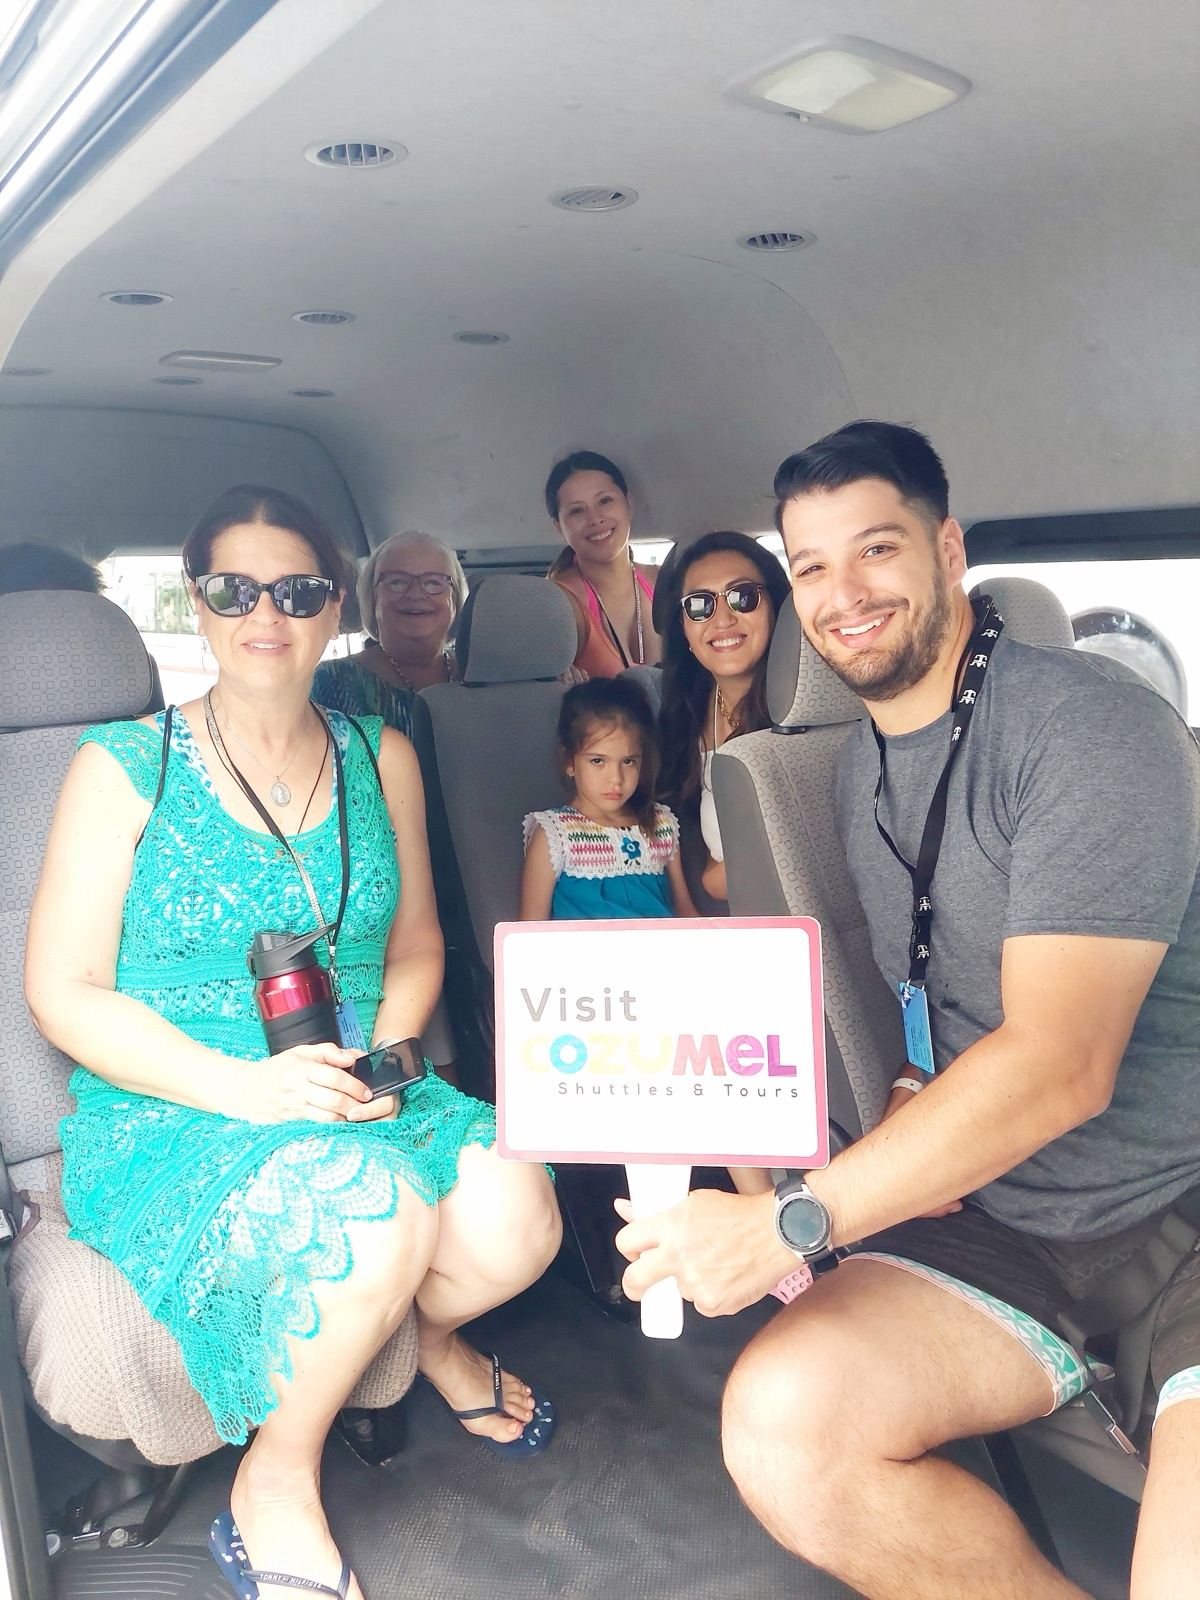
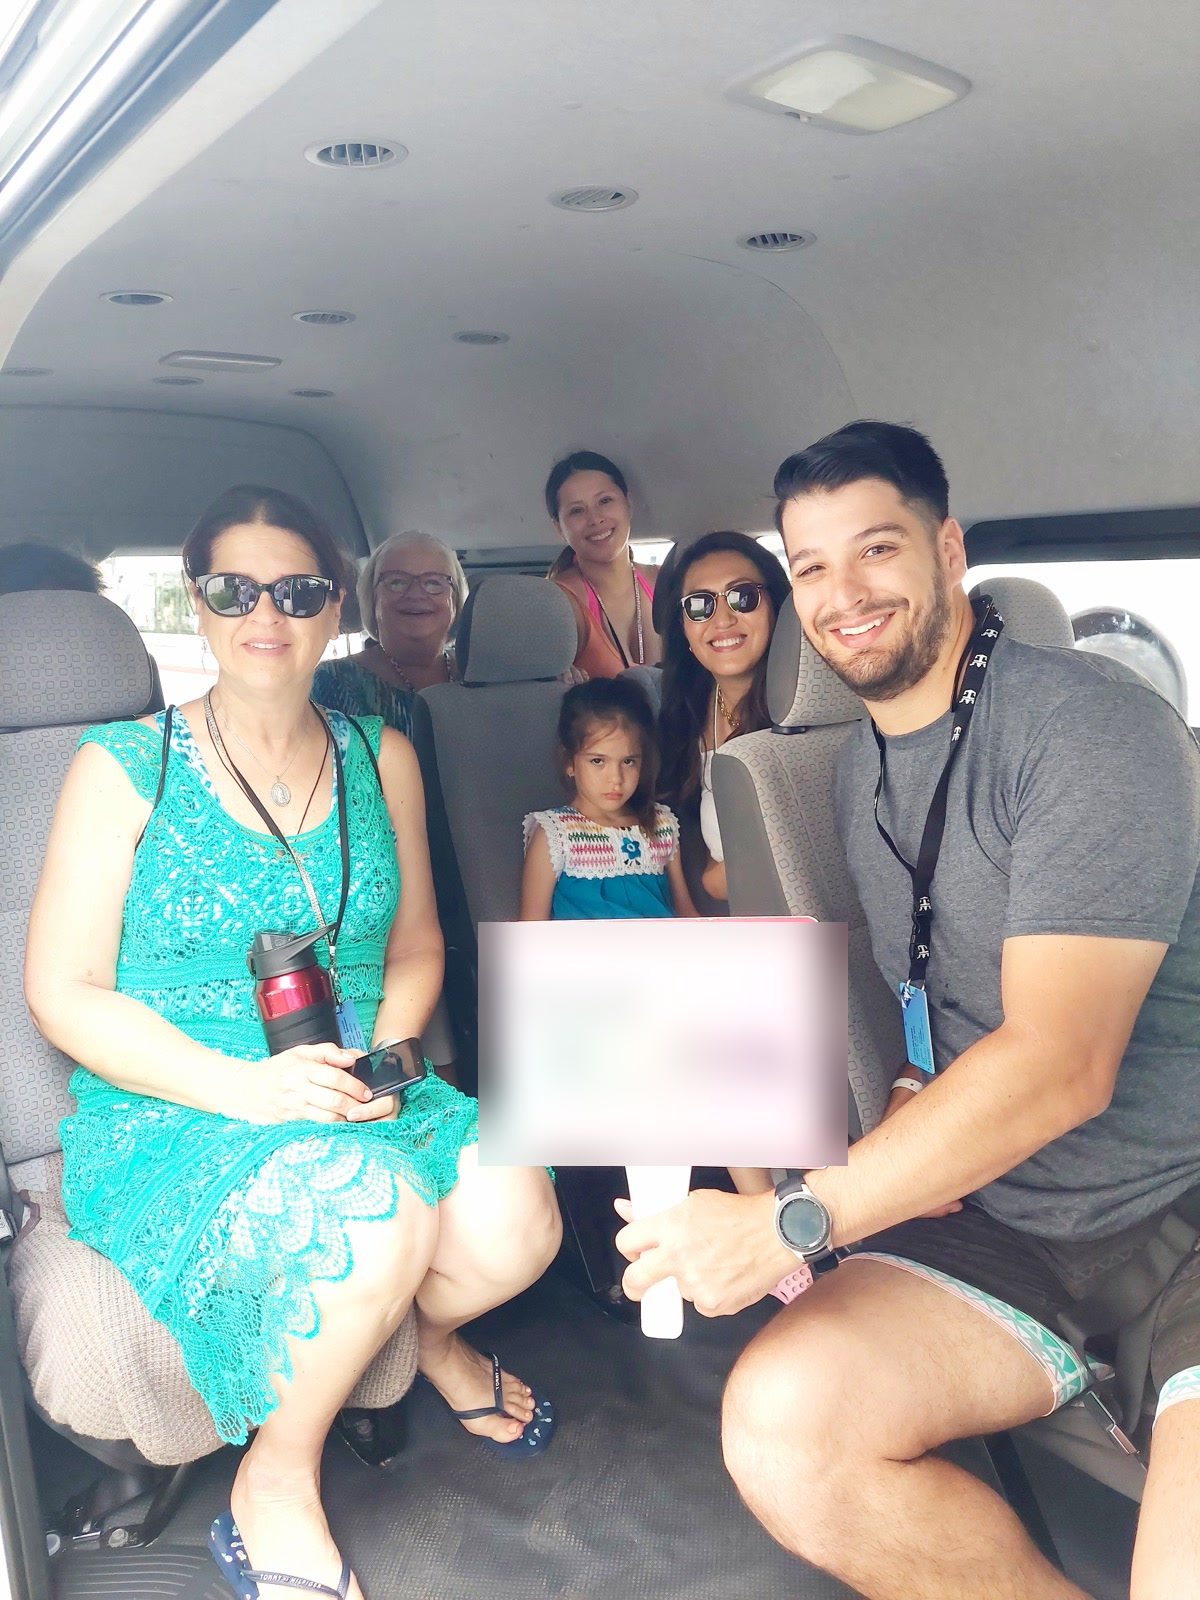
Eleven happy guests, a rotating Tierra Maya card, and a heading that stops protesting
Four changes Mike asked for after seeing it live.

HEADING. "Real pickups, real guests" is now "Happy guests". He was right: insisting a
thing is real is what people do when it is not, and a stranger reads the denial before
the claim. The photographs are the evidence; the heading only has to point at them. The
sub-line drops "Every photo below is a booking we actually drove" for the same reason.

POSITION. The strip now sits BELOW the destination cards rather than above them. She
comes to this page to pick a place; showing her strangers before she has chosen one is
interrupting. After she has picked, the same photographs read as reassurance.

THE PADDLE IS BLURRED in the van interior, at his request.

TIERRA MAYA rotates through four photographs - the group under the carved sign, the
cacao tables, the guide, the face paint. It is the one destination we own and the only
one with a real archive, so its card can show the place as a visit rather than a single
frame. Pure CSS, no script, 16s cycle at 4s each: slow enough to read as a place rather
than a slideshow. Honoured only when the visitor has not asked for reduced motion.

Three more photos in the strip, now eleven: the roadside fruit stand, the Punta Sur
signpost, and the cacao tables. Taken on his instruction to accept softer images where
the content is right - the fruit stand and the ice-cream shop are the two weakest files
in the set and two of the best moments.

Changed region(s): [[0.4625, 0.5625, 0.7092, 0.75], [0.4008, 0.5625, 0.5242, 0.75], [0.4625, 0.7188, 0.4933, 0.75]]

diff --git a/index.html b/index.html
@@ -631,6 +631,20 @@ figure.proof figcaption,figure.overview figcaption{font-size:13px;color:var(--mu
 .van-figure img{width:100%;max-height:420px;object-fit:cover;object-position:center 42%;
   border-radius:12px;display:block;background:#e8eef2}
 .van-figure figcaption{font-size:13px;color:var(--muted,#5B6B79);padding:8px 2px 0;line-height:1.5}
+
+/* Tierra Maya card, four photos crossfading. 16s cycle, 4s each: slow enough to read as a place
+   rather than a slideshow, and it never moves while she is deciding. Honoured only when the
+   visitor has not asked for reduced motion. */
+.poster-img.rotate img{opacity:0;animation:tmFade 16s linear infinite}
+.poster-img.rotate img:nth-of-type(1){animation-delay:0s}
+.poster-img.rotate img:nth-of-type(2){animation-delay:4s}
+.poster-img.rotate img:nth-of-type(3){animation-delay:8s}
+.poster-img.rotate img:nth-of-type(4){animation-delay:12s}
+@keyframes tmFade{0%{opacity:0}3%{opacity:1}25%{opacity:1}28%{opacity:0}100%{opacity:0}}
+@media(prefers-reduced-motion:reduce){
+  .poster-img.rotate img{animation:none;opacity:0}
+  .poster-img.rotate img:nth-of-type(1){opacity:1}
+}
 </style>
 </head>
 <body>
@@ -692,75 +706,19 @@ figure.proof figcaption,figure.overview figcaption{font-size:13px;color:var(--mu
        guest at the top of the page instead of at the thing she came to use. -->
   <div id="book"></div>
 
-  <!-- ── Real guests ──
-       Until today this page argued entirely in words: a private van, a person with a sign, one
-       flat price. It showed vans with nobody in them. These are real pickups and real customers,
-       which is the only evidence a stranger on ship wifi can actually check.
-
-       A horizontal strip rather than a grid, on purpose. A grid of eight means eight downloads and
-       a very long scroll on a phone. This shows about 1.2 photos at a time — the half-visible one
-       is what tells her to swipe — and only fetches what she reaches.
-
-       Every image is srcset across four widths, so a phone pulls a 400px file where a desktop pulls
-       1280px. width/height are the NATIVE ratios so the row cannot jump while loading; layout shift
-       on the way to a booking form is how you lose the booking. -->
-  <div class="sechead">Real pickups, real guests</div>
-  <p class="blurb" style="padding-top:0">Every photo below is a booking we actually drove.</p>
-  <div class="photo-strip" id="photoStrip">
-      <figure>
-        <img src="/.netlify/images?url=/assets/photos/guests-boarding-van.jpg&amp;fm=webp&amp;q=72&amp;w=640" srcset="/.netlify/images?url=/assets/photos/guests-boarding-van.jpg&amp;fm=webp&amp;q=72&amp;w=400 400w, /.netlify/images?url=/assets/photos/guests-boarding-van.jpg&amp;fm=webp&amp;q=72&amp;w=640 640w, /.netlify/images?url=/assets/photos/guests-boarding-van.jpg&amp;fm=webp&amp;q=72&amp;w=900 900w, /.netlify/images?url=/assets/photos/guests-boarding-van.jpg&amp;fm=webp&amp;q=72&amp;w=1280 1280w"
-             sizes="(max-width: 560px) 78vw, 300px"
-             width="1600" height="1200" loading="eager" decoding="async"
-             alt="Guests climbing into a Cozumel Island Transfers van on the street">
-      </figure>
-      <figure>
-        <img src="/.netlify/images?url=/assets/photos/driver-welcome-family.jpg&amp;fm=webp&amp;q=72&amp;w=640" srcset="/.netlify/images?url=/assets/photos/driver-welcome-family.jpg&amp;fm=webp&amp;q=72&amp;w=400 400w, /.netlify/images?url=/assets/photos/driver-welcome-family.jpg&amp;fm=webp&amp;q=72&amp;w=640 640w, /.netlify/images?url=/assets/photos/driver-welcome-family.jpg&amp;fm=webp&amp;q=72&amp;w=900 900w, /.netlify/images?url=/assets/photos/driver-welcome-family.jpg&amp;fm=webp&amp;q=72&amp;w=1280 1280w"
-             sizes="(max-width: 560px) 78vw, 300px"
-             width="1600" height="993" loading="lazy" decoding="async"
-             alt="Our driver with a family of five and a baby in a stroller beside the van">
-      </figure>
-      <figure>
-        <img src="/.netlify/images?url=/assets/photos/inside-the-van.jpg&amp;fm=webp&amp;q=72&amp;w=640" srcset="/.netlify/images?url=/assets/photos/inside-the-van.jpg&amp;fm=webp&amp;q=72&amp;w=400 400w, /.netlify/images?url=/assets/photos/inside-the-van.jpg&amp;fm=webp&amp;q=72&amp;w=640 640w, /.netlify/images?url=/assets/photos/inside-the-van.jpg&amp;fm=webp&amp;q=72&amp;w=900 900w, /.netlify/images?url=/assets/photos/inside-the-van.jpg&amp;fm=webp&amp;q=72&amp;w=1280 1280w"
-             sizes="(max-width: 560px) 78vw, 300px"
-             width="1600" height="1200" loading="lazy" decoding="async"
-             alt="Six guests of three generations seated inside the van on the way to the beach">
-      </figure>
-      <figure>
-        <img src="/.netlify/images?url=/assets/photos/family-windward-coast.jpg&amp;fm=webp&amp;q=72&amp;w=640" srcset="/.netlify/images?url=/assets/photos/family-windward-coast.jpg&amp;fm=webp&amp;q=72&amp;w=400 400w, /.netlify/images?url=/assets/photos/family-windward-coast.jpg&amp;fm=webp&amp;q=72&amp;w=640 640w, /.netlify/images?url=/assets/photos/family-windward-coast.jpg&amp;fm=webp&amp;q=72&amp;w=900 900w, /.netlify/images?url=/assets/photos/family-windward-coast.jpg&amp;fm=webp&amp;q=72&amp;w=1280 1280w"
-             sizes="(max-width: 560px) 78vw, 300px"
-             width="1600" height="1115" loading="lazy" decoding="async"
-             alt="A family of five at the Mexican flag on Cozumel's windward coast">
-      </figure>
-      <figure>
-        <img src="/.netlify/images?url=/assets/photos/cozumel-letters-family.jpg&amp;fm=webp&amp;q=72&amp;w=640" srcset="/.netlify/images?url=/assets/photos/cozumel-letters-family.jpg&amp;fm=webp&amp;q=72&amp;w=400 400w, /.netlify/images?url=/assets/photos/cozumel-letters-family.jpg&amp;fm=webp&amp;q=72&amp;w=640 640w, /.netlify/images?url=/assets/photos/cozumel-letters-family.jpg&amp;fm=webp&amp;q=72&amp;w=900 900w, /.netlify/images?url=/assets/photos/cozumel-letters-family.jpg&amp;fm=webp&amp;q=72&amp;w=1280 1280w"
-             sizes="(max-width: 560px) 78vw, 300px"
-             width="1600" height="1035" loading="lazy" decoding="async"
-             alt="A family at the painted COZUMEL letters on the beach">
-      </figure>
-      <figure>
-        <img src="/.netlify/images?url=/assets/photos/waterfront-arch-ship.jpg&amp;fm=webp&amp;q=72&amp;w=640" srcset="/.netlify/images?url=/assets/photos/waterfront-arch-ship.jpg&amp;fm=webp&amp;q=72&amp;w=400 400w, /.netlify/images?url=/assets/photos/waterfront-arch-ship.jpg&amp;fm=webp&amp;q=72&amp;w=640 640w, /.netlify/images?url=/assets/photos/waterfront-arch-ship.jpg&amp;fm=webp&amp;q=72&amp;w=900 900w, /.netlify/images?url=/assets/photos/waterfront-arch-ship.jpg&amp;fm=webp&amp;q=72&amp;w=1280 1280w"
-             sizes="(max-width: 560px) 78vw, 300px"
-             width="1600" height="1190" loading="lazy" decoding="async"
-             alt="Four guests at the bronze arch on the waterfront with a cruise ship behind">
-      </figure>
-      <figure>
-        <img src="/.netlify/images?url=/assets/photos/guests-ice-cream.jpg&amp;fm=webp&amp;q=72&amp;w=640" srcset="/.netlify/images?url=/assets/photos/guests-ice-cream.jpg&amp;fm=webp&amp;q=72&amp;w=400 400w, /.netlify/images?url=/assets/photos/guests-ice-cream.jpg&amp;fm=webp&amp;q=72&amp;w=640 640w, /.netlify/images?url=/assets/photos/guests-ice-cream.jpg&amp;fm=webp&amp;q=72&amp;w=900 900w, /.netlify/images?url=/assets/photos/guests-ice-cream.jpg&amp;fm=webp&amp;q=72&amp;w=1280 1280w"
-             sizes="(max-width: 560px) 78vw, 300px"
-             width="1600" height="1200" loading="lazy" decoding="async"
-             alt="Eight guests laughing with ice creams in a local Cozumel shop">
-      </figure>
-      <figure>
-        <img src="/.netlify/images?url=/assets/photos/tierra-maya-workshop.jpg&amp;fm=webp&amp;q=72&amp;w=640" srcset="/.netlify/images?url=/assets/photos/tierra-maya-workshop.jpg&amp;fm=webp&amp;q=72&amp;w=400 400w, /.netlify/images?url=/assets/photos/tierra-maya-workshop.jpg&amp;fm=webp&amp;q=72&amp;w=640 640w, /.netlify/images?url=/assets/photos/tierra-maya-workshop.jpg&amp;fm=webp&amp;q=72&amp;w=900 900w, /.netlify/images?url=/assets/photos/tierra-maya-workshop.jpg&amp;fm=webp&amp;q=72&amp;w=1280 1280w"
-             sizes="(max-width: 560px) 78vw, 300px"
-             width="1600" height="1282" loading="lazy" decoding="async"
-             alt="Guests grinding cacao on volcanic stone under papel picado at Tierra Maya">
-      </figure>
-  </div>
-
   <div class="sechead" id="homeDest">Where do you need to go?</div>
     <div class="grid" id="hubGrid">
     <button class="poster" onclick="openDest('tierra-maya')">
-      <div class="poster-img"><img src="/.netlify/images?url=/assets/photos/dest-tierra-maya-guests.jpg&amp;w=560&amp;fm=webp&amp;q=72" alt="Tierra Maya, Cozumel" loading="lazy"><span class="pl">Mayan Preserve</span></div>
+      <!-- Four photos, crossfading. Tierra Maya is the destination we own and the only one with a
+           real archive, so the card shows the place as a visit rather than as a single frame: the
+           group under the sign, the cacao tables, the guide, the face paint. Pure CSS - no script,
+           no library, and it costs four lazy images the browser fetches when the card scrolls in. -->
+      <div class="poster-img rotate">
+        <img src="/.netlify/images?url=/assets/photos/tm-1.jpg&amp;w=560&amp;fm=webp&amp;q=72" alt="A group of guests with their guide under the carved Tierra Maya sign" loading="lazy" decoding="async">
+        <img src="/.netlify/images?url=/assets/photos/tm-2.jpg&amp;w=560&amp;fm=webp&amp;q=72" alt="Guests grinding cacao on stone at Tierra Maya" loading="lazy" decoding="async" aria-hidden="true">
+        <img src="/.netlify/images?url=/assets/photos/tm-3.jpg&amp;w=560&amp;fm=webp&amp;q=72" alt="" loading="lazy" decoding="async" aria-hidden="true">
+        <img src="/.netlify/images?url=/assets/photos/tm-4.jpg&amp;w=560&amp;fm=webp&amp;q=72" alt="" loading="lazy" decoding="async" aria-hidden="true">
+        <span class="pl">Mayan Preserve</span></div>
       <div class="poster-meta"><h3>Tierra Maya</h3><div class="dur">15 min from the pier</div>
       <div class="go">View &amp; book →</div></div>
     </button>
@@ -812,6 +770,93 @@ figure.proof figcaption,figure.overview figcaption{font-size:13px;color:var(--mu
       <div class="go">View &amp; book →</div></div>
     </button>
   </div>
+
+  <!-- ── Happy guests ──
+       Named "Happy guests", not "Real pickups, real guests". The earlier heading protested too
+       much: insisting a thing is real is what people do when it is not, and a stranger reads the
+       denial before the claim. The photographs are the evidence; the heading only has to point.
+       Until today this page argued entirely in words: a private van, a person with a sign, one
+       flat price. It showed vans with nobody in them. These are real pickups and real customers,
+       which is the only evidence a stranger on ship wifi can actually check.
+
+       A horizontal strip rather than a grid, on purpose. A grid of eight means eight downloads and
+       a very long scroll on a phone. This shows about 1.2 photos at a time — the half-visible one
+       is what tells her to swipe — and only fetches what she reaches.
+
+       Every image is srcset across four widths, so a phone pulls a 400px file where a desktop pulls
+       1280px. width/height are the NATIVE ratios so the row cannot jump while loading; layout shift
+       on the way to a booking form is how you lose the booking. -->
+  <div class="sechead">Happy guests</div>
+  <p class="blurb" style="padding-top:0">Families we drove this season, on the island.</p>
+  <div class="photo-strip" id="photoStrip">
+      <figure>
+        <img src="/.netlify/images?url=/assets/photos/guests-boarding-van.jpg&amp;fm=webp&amp;q=72&amp;w=640" srcset="/.netlify/images?url=/assets/photos/guests-boarding-van.jpg&amp;fm=webp&amp;q=72&amp;w=400 400w, /.netlify/images?url=/assets/photos/guests-boarding-van.jpg&amp;fm=webp&amp;q=72&amp;w=640 640w, /.netlify/images?url=/assets/photos/guests-boarding-van.jpg&amp;fm=webp&amp;q=72&amp;w=900 900w, /.netlify/images?url=/assets/photos/guests-boarding-van.jpg&amp;fm=webp&amp;q=72&amp;w=1280 1280w"
+             sizes="(max-width: 560px) 78vw, 300px"
+             width="1600" height="1200" loading="eager" decoding="async"
+             alt="Guests climbing into a Cozumel Island Transfers van on the street">
+      </figure>
+      <figure>
+        <img src="/.netlify/images?url=/assets/photos/driver-welcome-family.jpg&amp;fm=webp&amp;q=72&amp;w=640" srcset="/.netlify/images?url=/assets/photos/driver-welcome-family.jpg&amp;fm=webp&amp;q=72&amp;w=400 400w, /.netlify/images?url=/assets/photos/driver-welcome-family.jpg&amp;fm=webp&amp;q=72&amp;w=640 640w, /.netlify/images?url=/assets/photos/driver-welcome-family.jpg&amp;fm=webp&amp;q=72&amp;w=900 900w, /.netlify/images?url=/assets/photos/driver-welcome-family.jpg&amp;fm=webp&amp;q=72&amp;w=1280 1280w"
+             sizes="(max-width: 560px) 78vw, 300px"
+             width="1600" height="993" loading="lazy" decoding="async"
+             alt="Our driver with a family of five and a baby in a stroller beside the van">
+      </figure>
+      <figure>
+        <img src="/.netlify/images?url=/assets/photos/inside-the-van.jpg&amp;fm=webp&amp;q=72&amp;w=640" srcset="/.netlify/images?url=/assets/photos/inside-the-van.jpg&amp;fm=webp&amp;q=72&amp;w=400 400w, /.netlify/images?url=/assets/photos/inside-the-van.jpg&amp;fm=webp&amp;q=72&amp;w=640 640w, /.netlify/images?url=/assets/photos/inside-the-van.jpg&amp;fm=webp&amp;q=72&amp;w=900 900w, /.netlify/images?url=/assets/photos/inside-the-van.jpg&amp;fm=webp&amp;q=72&amp;w=1280 1280w"
+             sizes="(max-width: 560px) 78vw, 300px"
+             width="1600" height="1200" loading="lazy" decoding="async"
+             alt="Six guests of three generations seated inside the van on the way to the beach">
+      </figure>
+      <figure>
+        <img src="/.netlify/images?url=/assets/photos/family-windward-coast.jpg&amp;fm=webp&amp;q=72&amp;w=640" srcset="/.netlify/images?url=/assets/photos/family-windward-coast.jpg&amp;fm=webp&amp;q=72&amp;w=400 400w, /.netlify/images?url=/assets/photos/family-windward-coast.jpg&amp;fm=webp&amp;q=72&amp;w=640 640w, /.netlify/images?url=/assets/photos/family-windward-coast.jpg&amp;fm=webp&amp;q=72&amp;w=900 900w, /.netlify/images?url=/assets/photos/family-windward-coast.jpg&amp;fm=webp&amp;q=72&amp;w=1280 1280w"
+             sizes="(max-width: 560px) 78vw, 300px"
+             width="1600" height="1115" loading="lazy" decoding="async"
+             alt="A family of five at the Mexican flag on Cozumel's windward coast">
+      </figure>
+      <figure>
+        <img src="/.netlify/images?url=/assets/photos/cozumel-letters-family.jpg&amp;fm=webp&amp;q=72&amp;w=640" srcset="/.netlify/images?url=/assets/photos/cozumel-letters-family.jpg&amp;fm=webp&amp;q=72&amp;w=400 400w, /.netlify/images?url=/assets/photos/cozumel-letters-family.jpg&amp;fm=webp&amp;q=72&amp;w=640 640w, /.netlify/images?url=/assets/photos/cozumel-letters-family.jpg&amp;fm=webp&amp;q=72&amp;w=900 900w, /.netlify/images?url=/assets/photos/cozumel-letters-family.jpg&amp;fm=webp&amp;q=72&amp;w=1280 1280w"
+             sizes="(max-width: 560px) 78vw, 300px"
+             width="1600" height="1035" loading="lazy" decoding="async"
+             alt="A family at the painted COZUMEL letters on the beach">
+      </figure>
+      <figure>
+        <img src="/.netlify/images?url=/assets/photos/waterfront-arch-ship.jpg&amp;fm=webp&amp;q=72&amp;w=640" srcset="/.netlify/images?url=/assets/photos/waterfront-arch-ship.jpg&amp;fm=webp&amp;q=72&amp;w=400 400w, /.netlify/images?url=/assets/photos/waterfront-arch-ship.jpg&amp;fm=webp&amp;q=72&amp;w=640 640w, /.netlify/images?url=/assets/photos/waterfront-arch-ship.jpg&amp;fm=webp&amp;q=72&amp;w=900 900w, /.netlify/images?url=/assets/photos/waterfront-arch-ship.jpg&amp;fm=webp&amp;q=72&amp;w=1280 1280w"
+             sizes="(max-width: 560px) 78vw, 300px"
+             width="1600" height="1190" loading="lazy" decoding="async"
+             alt="Four guests at the bronze arch on the waterfront with a cruise ship behind">
+      </figure>
+      <figure>
+        <img src="/.netlify/images?url=/assets/photos/guests-ice-cream.jpg&amp;fm=webp&amp;q=72&amp;w=640" srcset="/.netlify/images?url=/assets/photos/guests-ice-cream.jpg&amp;fm=webp&amp;q=72&amp;w=400 400w, /.netlify/images?url=/assets/photos/guests-ice-cream.jpg&amp;fm=webp&amp;q=72&amp;w=640 640w, /.netlify/images?url=/assets/photos/guests-ice-cream.jpg&amp;fm=webp&amp;q=72&amp;w=900 900w, /.netlify/images?url=/assets/photos/guests-ice-cream.jpg&amp;fm=webp&amp;q=72&amp;w=1280 1280w"
+             sizes="(max-width: 560px) 78vw, 300px"
+             width="1600" height="1200" loading="lazy" decoding="async"
+             alt="Eight guests laughing with ice creams in a local Cozumel shop">
+      </figure>
+      <figure>
+        <img src="/.netlify/images?url=/assets/photos/tierra-maya-workshop.jpg&amp;fm=webp&amp;q=72&amp;w=640" srcset="/.netlify/images?url=/assets/photos/tierra-maya-workshop.jpg&amp;fm=webp&amp;q=72&amp;w=400 400w, /.netlify/images?url=/assets/photos/tierra-maya-workshop.jpg&amp;fm=webp&amp;q=72&amp;w=640 640w, /.netlify/images?url=/assets/photos/tierra-maya-workshop.jpg&amp;fm=webp&amp;q=72&amp;w=900 900w, /.netlify/images?url=/assets/photos/tierra-maya-workshop.jpg&amp;fm=webp&amp;q=72&amp;w=1280 1280w"
+             sizes="(max-width: 560px) 78vw, 300px"
+             width="1600" height="1282" loading="lazy" decoding="async"
+             alt="Guests grinding cacao on volcanic stone under papel picado at Tierra Maya">
+      </figure>
+      <figure>
+        <img src="/.netlify/images?url=/assets/photos/fruit-stand-guests.jpg&amp;fm=webp&amp;q=72&amp;w=640" srcset="/.netlify/images?url=/assets/photos/fruit-stand-guests.jpg&amp;fm=webp&amp;q=72&amp;w=400 400w, /.netlify/images?url=/assets/photos/fruit-stand-guests.jpg&amp;fm=webp&amp;q=72&amp;w=640 640w, /.netlify/images?url=/assets/photos/fruit-stand-guests.jpg&amp;fm=webp&amp;q=72&amp;w=900 900w, /.netlify/images?url=/assets/photos/fruit-stand-guests.jpg&amp;fm=webp&amp;q=72&amp;w=1280 1280w"
+             sizes="(max-width: 560px) 78vw, 300px"
+             width="1600" height="1200" loading="lazy" decoding="async"
+             alt="Five guests at a roadside fruit stand with watermelon and pitaya">
+      </figure>
+      <figure>
+        <img src="/.netlify/images?url=/assets/photos/punta-sur-signpost.jpg&amp;fm=webp&amp;q=72&amp;w=640" srcset="/.netlify/images?url=/assets/photos/punta-sur-signpost.jpg&amp;fm=webp&amp;q=72&amp;w=400 400w, /.netlify/images?url=/assets/photos/punta-sur-signpost.jpg&amp;fm=webp&amp;q=72&amp;w=640 640w, /.netlify/images?url=/assets/photos/punta-sur-signpost.jpg&amp;fm=webp&amp;q=72&amp;w=900 900w, /.netlify/images?url=/assets/photos/punta-sur-signpost.jpg&amp;fm=webp&amp;q=72&amp;w=1280 1280w"
+             sizes="(max-width: 560px) 78vw, 300px"
+             width="1600" height="1429" loading="lazy" decoding="async"
+             alt="A family at the Punta Sur signpost, the last point of Mexico">
+      </figure>
+      <figure>
+        <img src="/.netlify/images?url=/assets/photos/tierra-maya-cacao.jpg&amp;fm=webp&amp;q=72&amp;w=640" srcset="/.netlify/images?url=/assets/photos/tierra-maya-cacao.jpg&amp;fm=webp&amp;q=72&amp;w=400 400w, /.netlify/images?url=/assets/photos/tierra-maya-cacao.jpg&amp;fm=webp&amp;q=72&amp;w=640 640w, /.netlify/images?url=/assets/photos/tierra-maya-cacao.jpg&amp;fm=webp&amp;q=72&amp;w=900 900w, /.netlify/images?url=/assets/photos/tierra-maya-cacao.jpg&amp;fm=webp&amp;q=72&amp;w=1280 1280w"
+             sizes="(max-width: 560px) 78vw, 300px"
+             width="1600" height="1391" loading="lazy" decoding="async"
+             alt="Guests grinding cacao by hand at long stone tables under a palapa">
+      </figure>
+  </div>
+
 
   <!-- Pricing -->
   <div class="sechead" id="homePrice">One price, by vehicle</div>
